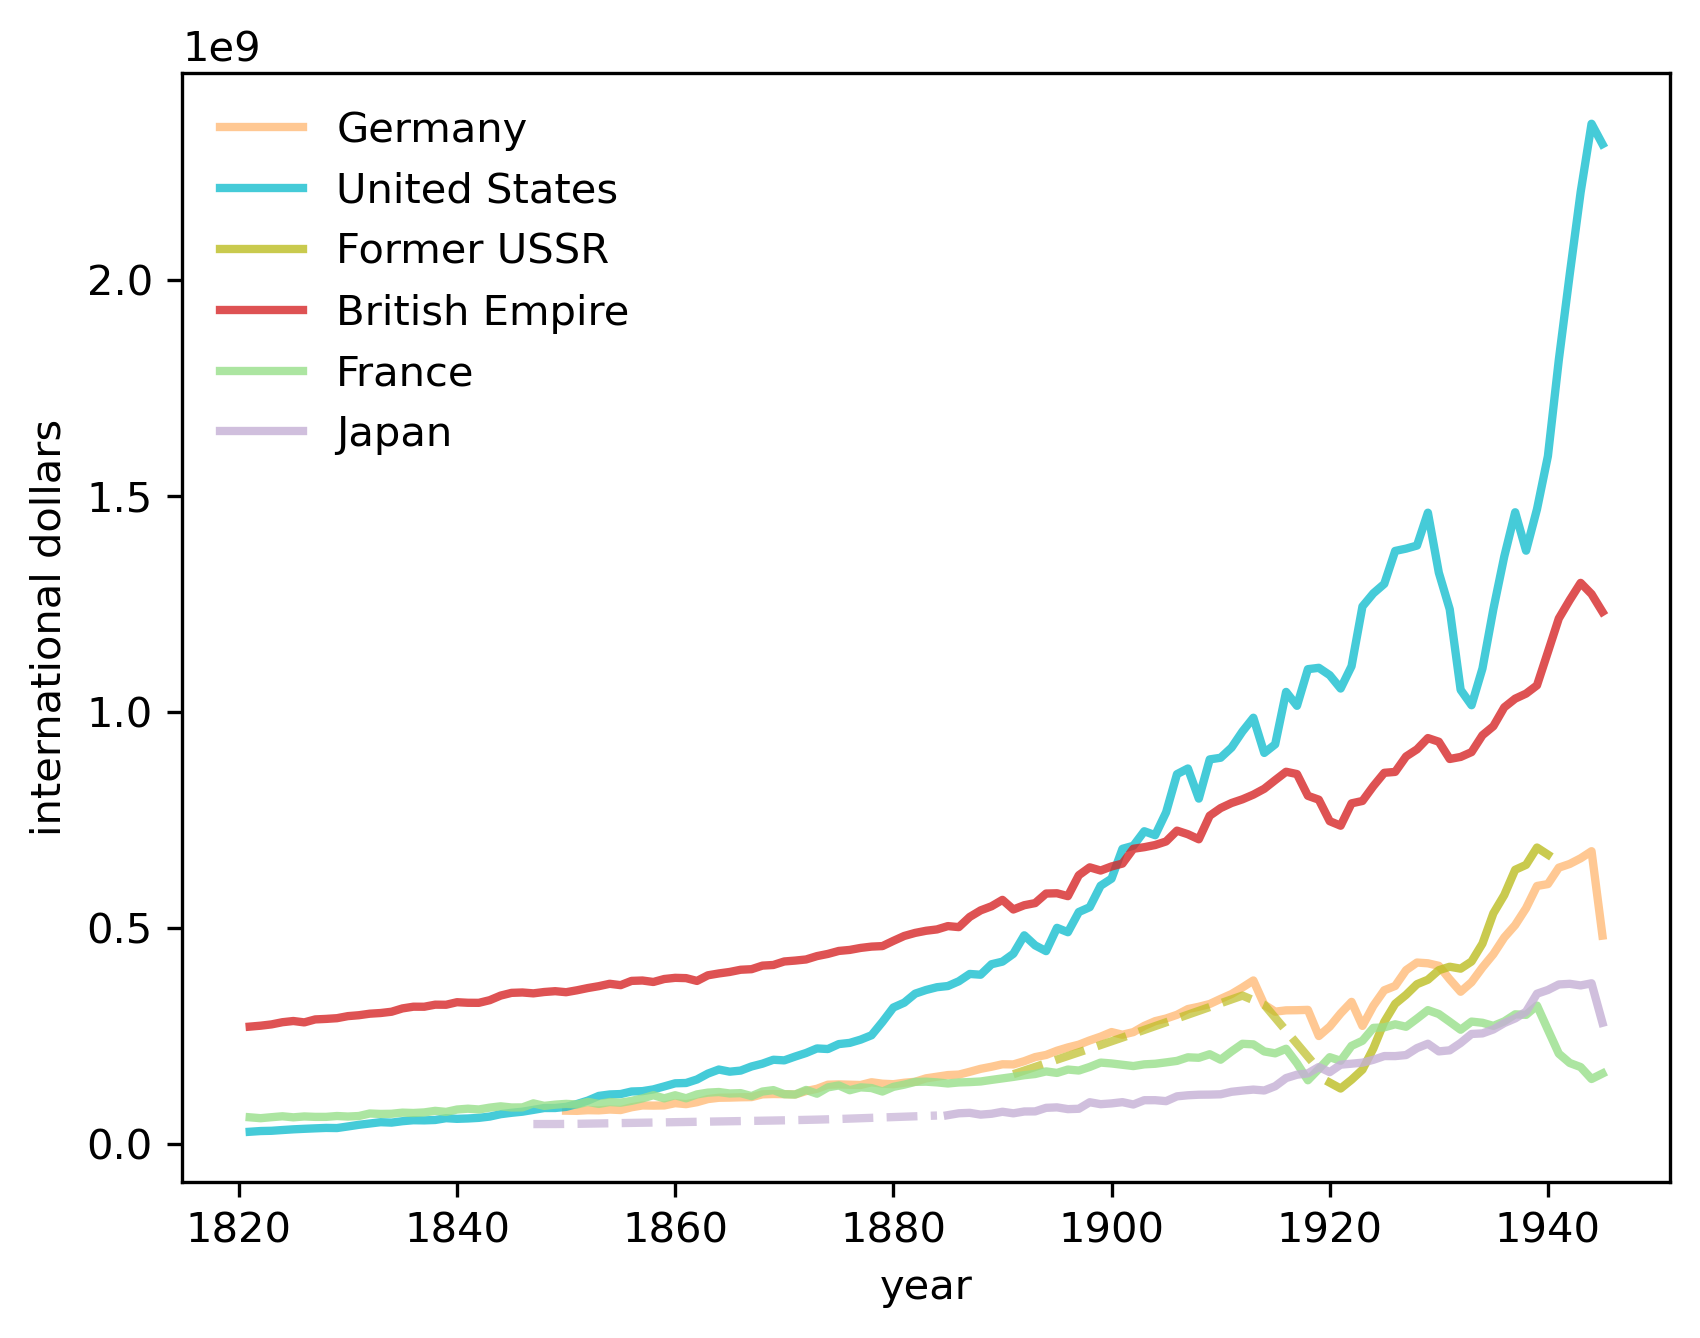
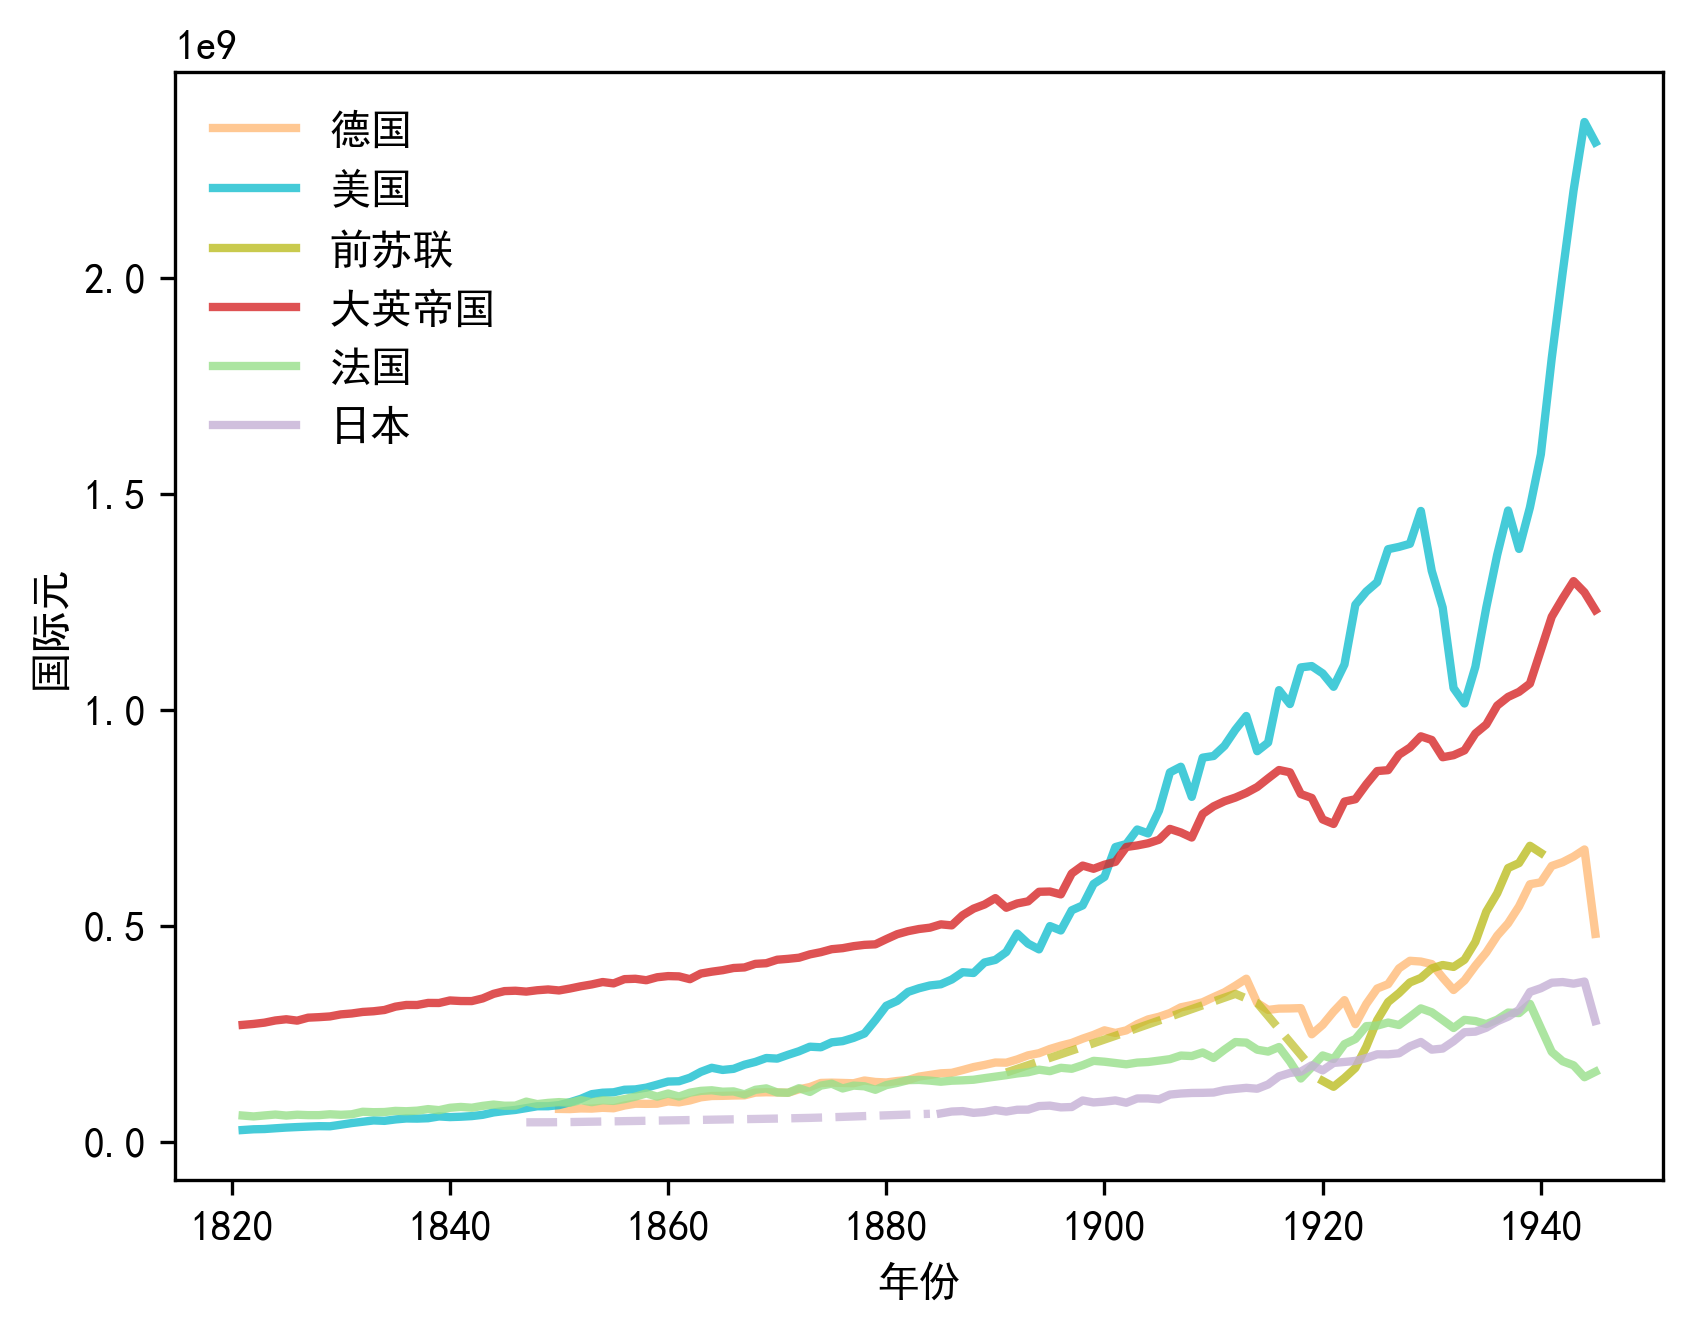
update lrg

diff --git a/lectures/long_run_growth.md b/lectures/long_run_growth.md
@@ -21,7 +21,7 @@ kernelspec:
 
 这些 “增长事实 ”之所以有趣，原因是多方面的。 
 
-首先解释增长事实是 “发展经济学 ”和 “经济史 ”的主要目的。
+首先解释增长事实是 “发展经济学 ”和 “经济史”的主要目的。
 
 其次增长事实也是历史学家研究地缘政治力量和动态的重要依据。
 
@@ -33,7 +33,7 @@ kernelspec:
 :width: 100%
 ```
 
-（这只是我们的图 {numref}`gdp1` 的副本。 我们将在本讲座的稍后部分介绍如何绘制该图）。
+（这只是我们的图 {numref}`gdp1` 的副本。 我们将在本讲座的稍后部分介绍如何绘制{numref}`gdp1`）。
 
 {cite}`Tooze_2014`的第1章用他的图表说明了美国的GDP在19世纪初如何远远落后于大英帝国的GDP。
 
@@ -42,12 +42,11 @@ kernelspec:
 
 在亚当-图兹看来，这一事实是 “美国世纪 ”的关键地缘政治基础。
 
-看了这张图，再看看它是如何为 “美国的20世纪”搭建地缘政治舞台的，自然而然地 
-诱使人们想要一个与他的图表相对应的 2014 年或以后的图表。
+看了这张图，以及这些数据是如何为 “美国的20世纪” 搭建地缘政治舞台的，我们也许想知道 2014 年或以后与上图对应的图表。
 
-(感兴趣的读者若想找到答案的提示，现在不妨跳到前面看看图{numref}`gdp2`）。
+(感兴趣的读者若想找到答案的提示，现在不妨跳到后面看看图{numref}`gdp2`）。
 
-正如我们将看到的，通过类比推理，这张图表或许奠定了“XXX国的21世纪”的基础，你可以自由猜测国家XXX。
+正如我们将看到的，通过类比推理，这张图表或许奠定了“XXX国的21世纪”的基础，XXX可以替换为任何国家。
 
 在我们收集数据以构建这两个图表的过程中，我们还将研究多国在尽可能长的时间范围内的增长经历。
 
@@ -68,6 +67,8 @@ import matplotlib.pyplot as plt
 import matplotlib.cm as cm
 import numpy as np
 from collections import namedtuple
+
+plt.rcParams['font.sans-serif'] = ['SimHei']
 ```
 
 ## 准备数据
@@ -77,9 +78,9 @@ from collections import namedtuple
 
 可以从[Maddison Historical Statistics](https://www.rug.nl/ggdc/historicaldevelopment/maddison/)下载数据，点击“Latest Maddison Project Release”即可获取。
 
-我们将从 QuantEcon GitHub 存储库中读取数据。
+我们将从 QuantEcon GitHub 的库中读取数据。
 
-本节的目的是生成一个方便的 `DataFrame` 实例，其中包含不同国家的人均 GDP。
+本节的目的是生成一个方便使用的包含不同国家的人均 GDP 的 `DataFrame` 实例。
 
 在这里，我们将 Maddison 的数据读入一个 pandas `DataFrame`：
 
@@ -99,7 +100,7 @@ countries = data.country.unique()
 len(countries)
 ```
 
-通过运行上面的代码，我们可以找到有多少个国家的数据。
+通过运行上面的代码，我们可以列出这个数据集有多少个国家的数据。
 
 下面，我们将列出这些国家。
 
@@ -107,9 +108,9 @@ len(countries)
 countries
 ```
 
-我们现在可以探索一些可用的169个国家。
+我们现在可以继续探索数据集里的169个国家。
 
-让我们遍历每个国家，以了解每个国家可用的年份。
+我们可以遍历每个国家来了解每个国家可用的年份。
 
 ```{code-cell} ipython3
 country_years = []
@@ -124,11 +125,13 @@ country_years.head()
 
 现在，让我们将原始数据重塑为一些方便的变量，以便更快地访问各国的时间序列数据。
 
-我们可以在该数据集中的国家代码（`countrycode`）和国家名称（`country`）之间建立一个有用的映射关系
+我们可以在该数据集中的国家代码（`countrycode`）和国家名称（`country`）之间建立一个有用的映射关系。
+
+为了方便使用中文标签，我们导入地区代码与中文名对应的数据集
 
 ```{code-cell} ipython3
-code_to_name = data[
-    ['countrycode', 'country']].drop_duplicates().reset_index(drop=True).set_index(['countrycode'])
+code_to_name = pd.read_csv("../lectures/datasets/country_code_cn.csv").set_index('countrycode')
+code_to_name.loc['BEM']
 ```
 
 现在，我们调用人均 GDP (`gdppc`)，并生成一个宽格式的数据
@@ -171,7 +174,7 @@ color_mapping = {country: color for
 ---
 mystnb:
   figure:
-    caption: GDP per Capita (GBR)
+    caption: "人均GDP（英国）"
     name: gdppc_gbr1
     width: 500px
 ---
@@ -179,17 +182,17 @@ fig, ax = plt.subplots(dpi=300)
 country = 'GBR'
 gdp_pc[country].plot(
         ax=ax,
-        ylabel='international dollars',
-        xlabel='year',
+        ylabel='国际元',
+        xlabel='年份',
         color=color_mapping[country]
     );
 ```
 
 :::{note}
-[国际美元](https://en.wikipedia.org/wiki/international_dollar) 是一种假设的货币单位，在特定时间点与美元在美国的购买力平价相同。它们也被称为 Geary-Khamis 美元（GK 美元）。
+[国际元](https://zh.wikipedia.org/wiki/%E5%9C%8B%E9%9A%9B%E5%85%83) 是一种假设的货币单位，在特定时间点与美元在美国的购买力平价相同。它们也被称为 Geary-Khamis 元（GK 元）。
 :::
 
-我们可以看到，在本千年早期的 250 年中，较长时期的数据是不连续的，因此我们可以选择内插法得到连续的线图。
+我们可以看到，在本千年早期的 250 年中有长一段数据是不连续的，因此我们可以选择内插法得到连续的线图。
 
 在这里，我们用虚线表示插值趋势
 
@@ -197,7 +200,7 @@ gdp_pc[country].plot(
 ---
 mystnb:
   figure:
-    caption: GDP per Capita (GBR)
+    caption: "人均GDP（英国）"
     name: gdppc_gbr2
 ---
 fig, ax = plt.subplots(dpi=300)
@@ -210,8 +213,8 @@ ax.plot(gdp_pc[country].interpolate(),
 ax.plot(gdp_pc[country],
         lw=2,
         color=color_mapping[country])
-ax.set_ylabel('international dollars')
-ax.set_xlabel('year')
+ax.set_ylabel('国际元')
+ax.set_xlabel('年份')
 plt.show()
 ```
 
@@ -229,7 +232,7 @@ def draw_interp_plots(series,        # pandas 数据
                       color_mapping, # 代码-颜色映射
                       code_to_name,  # 代码-国家名映射
                       lw,            # 线宽
-                      logscale,      # Y 轴是否要对数刻度
+                      logscale,      # Y 轴是否要用对数刻度
                       ax             # matplolib 轴
                      ):
 
@@ -250,12 +253,12 @@ def draw_interp_plots(series,        # pandas 数据
                 lw=lw,
                 color=color_mapping[c],
                 alpha=0.8,
-                label=code_to_name.loc[c]['country'])
+                label=code_to_name.loc[c]['country_chinese'])
 
         if logscale:
             ax.set_yscale('log')
 
-    # 将图例绘制在图外
+    # 将图例绘制在图外的左上角（loc）
     ax.legend(loc='upper left', frameon=False)
     ax.set_ylabel(ylabel)
     ax.set_xlabel(xlabel)
@@ -271,7 +274,7 @@ def draw_interp_plots(series,        # pandas 数据
 ---
 mystnb:
   figure:
-    caption: 人均 GDP，1500-（中国、英国、美国）
+    caption: 人均 GDP，1500-至今（中国、英国、美国）
     name: gdppc_comparison
 tags: [hide-input]
 ---
@@ -283,7 +286,7 @@ fig, ax = plt.subplots(dpi=300, figsize=(10, 6))
 country = ['CHN', 'GBR', 'USA']
 draw_interp_plots(gdp_pc[country].loc[1500:], 
                   country,
-                  'international dollars','year',
+                  '国际元', '年份',
                   color_mapping, code_to_name, 2, False, ax)
 
 # 定义事件和文本的参数
@@ -355,7 +358,7 @@ plt.show()
 ---
 mystnb:
   figure:
-    caption: 人均GDP，1500-2000（中国）
+    caption: 人均GDP，1500-2000年（中国）
     name: gdppc_china
 tags: [hide-input]
 ---
@@ -364,7 +367,7 @@ fig, ax = plt.subplots(dpi=300, figsize=(10, 6))
 country = ['CHN']
 draw_interp_plots(gdp_pc[country].loc[1600:2000], 
                   country,
-                  '国际美元','年份',
+                  '国际元','年份',
                   color_mapping, code_to_name, 2, True, ax)
 
 ylim = ax.get_ylim()[1]
@@ -425,7 +428,7 @@ fig, ax = plt.subplots(dpi=300, figsize=(10, 6))
 country = ['GBR', 'USA']
 draw_interp_plots(gdp_pc[country].loc[1500:2000],
                   country,
-                  '国际美元','年份',
+                  '国际元','年份',
                   color_mapping, code_to_name, 2, True, ax)
 
 ylim = ax.get_ylim()[1]
@@ -490,7 +493,7 @@ gdp = data['gdp'].unstack('countrycode')
 ---
 mystnb:
   figure:
-    caption: 早期工业化时代的GDP
+    caption: 早期工业化时期的GDP
     name: gdp1
 ---
 fig, ax = plt.subplots(dpi=300)
@@ -498,7 +501,7 @@ country = ['CHN', 'SUN', 'JPN', 'GBR', 'USA']
 start_year, end_year = (1820, 1945)
 draw_interp_plots(gdp[country].loc[start_year:end_year], 
                   country,
-                  '国际美元', '年份',
+                  '国际元', '年份',
                   color_mapping, code_to_name, 2, False, ax)
 ```
 
@@ -518,9 +521,6 @@ gdp['BEM'] = gdp[BEM].loc[start_year-1:end_year].interpolate(method='index').sum
 
 ```{code-cell} ipython3
 color_mapping['BEM'] = color_mapping['GBR']  
-bem = pd.DataFrame(["British Empire"], index=["BEM"], columns=['country'])
-bem.index.name = 'countrycode'
-code_to_name = pd.concat([code_to_name, bem])
 ```
 
 并绘制他们
@@ -531,7 +531,7 @@ country = ['DEU', 'USA', 'SUN', 'BEM', 'FRA', 'JPN']
 start_year, end_year = (1821, 1945)
 draw_interp_plots(gdp[country].loc[start_year:end_year], 
                   country,
-                  'international dollars', 'year',
+                  '国际元', '年份',
                   color_mapping, code_to_name, 2, False, ax)
 
 plt.savefig("./_static/lecture_specific/long_run_growth/tooze_ch1_graph.png", dpi=300,
@@ -553,7 +553,7 @@ plt.show()
 ---
 mystnb:
   figure:
-    caption: 现代时代的GDP
+    caption: 现代的GDP
     name: gdp2
 ---
 fig, ax = plt.subplots(dpi=300)
@@ -561,7 +561,7 @@ country = ['CHN', 'SUN', 'JPN', 'GBR', 'USA']
 start_year, end_year = (1950, 2020)
 draw_interp_plots(gdp[country].loc[start_year:end_year], 
                   country,
-                  '国际美元', '年份',
+                  '国际元', '年份',
                   color_mapping, code_to_name, 2, False, ax)
 ```
 
@@ -592,6 +592,8 @@ regionalgdp_pc.index = pd.to_datetime(regionalgdp_pc.index, format='%Y')
 
 ```{code-cell} ipython3
 regionalgdp_pc.interpolate(method='time', inplace=True)
+regionalgdp_pc.columns = ['西欧', '东欧', '西方分支', '拉丁美洲', '东亚', '南亚和东南亚', '中东', '撒哈拉以南非洲', '世界人均GDP']
+regionalgdp_pc
 ```
 
 进行更深入的研究，我们将 西方分支（`Western Offshoots`）和 （撒哈拉以南非洲）`Sub-Saharan Africa`的时间序列与世界各地多个不同地区进行比较。
@@ -608,7 +610,7 @@ mystnb:
 fig, ax = plt.subplots(dpi=300)
 regionalgdp_pc.plot(ax=ax, xlabel='年份',
                     lw=2,
-                    ylabel='国际美元')
+                    ylabel='国际元')
 ax.set_yscale('log')
 plt.legend(loc='lower center',
            ncol=3, bbox_to_anchor=[0.5, -0.5])
